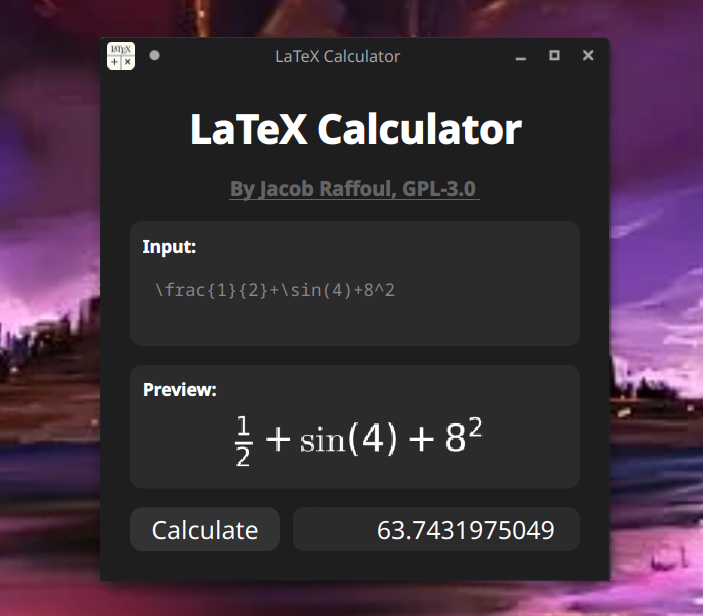
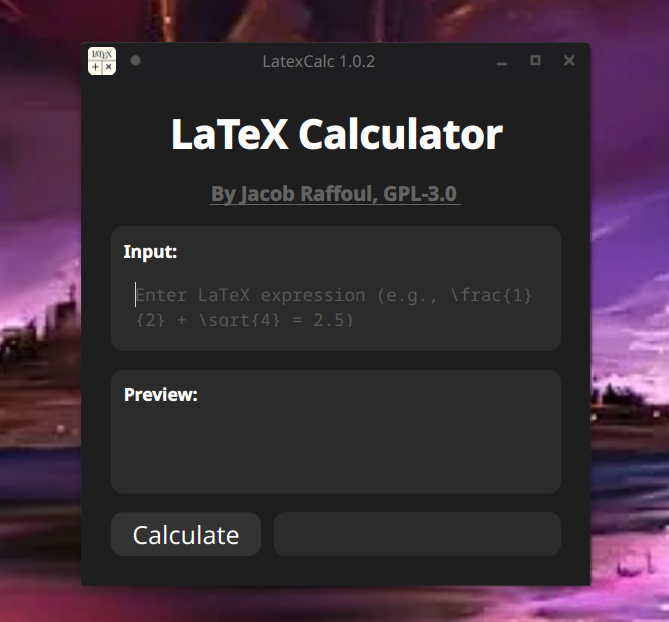
Updated naming and version

diff --git a/LatexCalc.py b/LatexCalc.py
@@ -14,6 +14,9 @@ matplotlib.rcParams['mathtext.default'] = 'regular'
 from matplotlib.figure import Figure
 from matplotlib.backends.backend_agg import FigureCanvasAgg
 
+# Set version
+version = "1.0.2"
+
 # Get the directory containing the script
 if getattr(sys, 'frozen', False):
     # If the application is run as a bundle (PyInstaller)
@@ -35,7 +38,7 @@ class DarkFrame(QFrame):
 class LatexCalculator(QMainWindow):
     def __init__(self):
         super().__init__()
-        self.setWindowTitle("LaTeX Calculator")
+        self.setWindowTitle("LatexCalc "+version)
         self.setMinimumSize(400, 400)
         self.resize(400, 400)
         self.setStyleSheet("""
@@ -372,7 +375,7 @@ if __name__ == '__main__':
     
     # Set application metadata
     app.setApplicationName("LatexCalc")
-    app.setApplicationDisplayName("LaTeX Calculator")
+    app.setApplicationDisplayName("LatexCalc "+version)
     app.setDesktopFileName("latexcalc")
     
     # Set window class name for proper icon mapping
